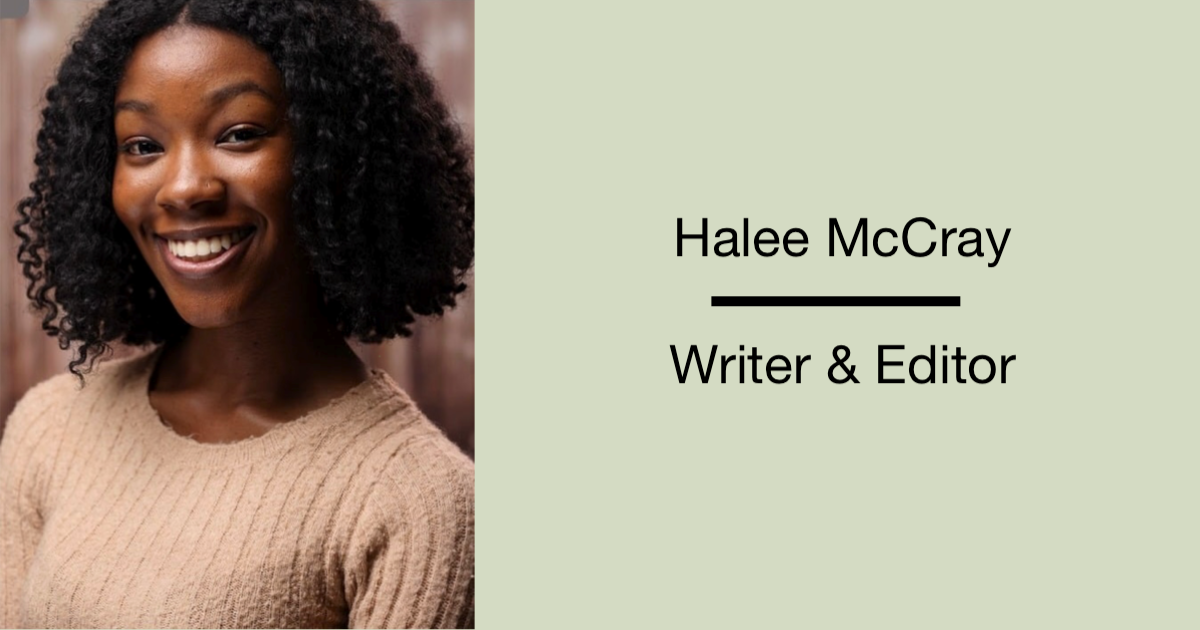
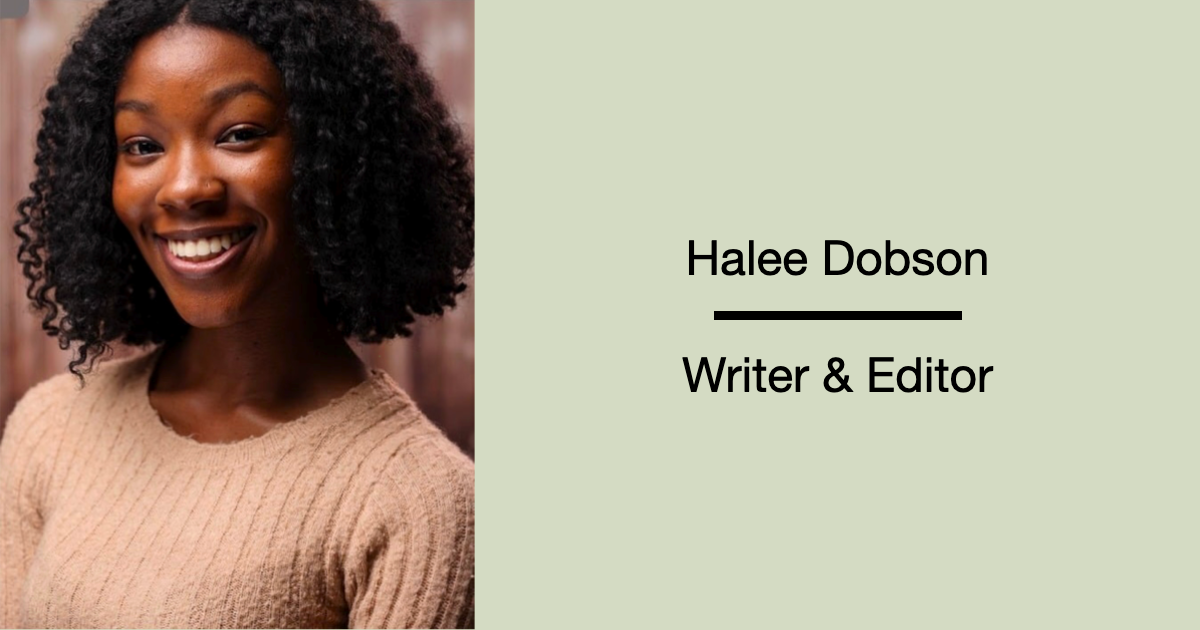
Update name from Halee McCray to Halee Dobson

Changed region(s): [[0.555, 0.3317, 0.8633, 0.5127], [0.555, 0.5429, 0.8633, 0.6333]]

diff --git a/public/index.html b/public/index.html
@@ -32,24 +32,24 @@
       browser. Keep the one-line attribute order (name/property, then content)
       so the build script can find each tag.
     -->
-    <title>Halee McCray | Copywriter &amp; Content Strategist</title>
-    <meta name="description" content="Halee McCray is a copywriter and content strategist writing emails, SMS, blog articles, and e-commerce copy that is clear, on-brand, and gives readers a reason to take the next step." />
+    <title>Halee Dobson | Copywriter &amp; Content Strategist</title>
+    <meta name="description" content="Halee Dobson is a copywriter and content strategist writing emails, SMS, blog articles, and e-commerce copy that is clear, on-brand, and gives readers a reason to take the next step." />
     <link rel="canonical" href="https://haleemccray.com/" />
-    <meta property="og:site_name" content="Halee McCray" />
-    <meta property="og:title" content="Halee McCray | Copywriter &amp; Content Strategist" />
-    <meta property="og:description" content="Halee McCray is a copywriter and content strategist writing emails, SMS, blog articles, and e-commerce copy that is clear, on-brand, and gives readers a reason to take the next step." />
+    <meta property="og:site_name" content="Halee Dobson" />
+    <meta property="og:title" content="Halee Dobson | Copywriter &amp; Content Strategist" />
+    <meta property="og:description" content="Halee Dobson is a copywriter and content strategist writing emails, SMS, blog articles, and e-commerce copy that is clear, on-brand, and gives readers a reason to take the next step." />
     <meta property="og:type" content="website" />
     <meta property="og:url" content="https://haleemccray.com/" />
     <meta property="og:image" content="https://haleemccray.com/headshot-og.png" />
     <meta property="og:image:type" content="image/png" />
     <meta property="og:image:width" content="1200" />
     <meta property="og:image:height" content="630" />
-    <meta property="og:image:alt" content="Halee McCray, copywriter and content strategist" />
+    <meta property="og:image:alt" content="Halee Dobson, copywriter and content strategist" />
     <meta name="twitter:card" content="summary_large_image" />
-    <meta name="twitter:title" content="Halee McCray | Copywriter &amp; Content Strategist" />
-    <meta name="twitter:description" content="Halee McCray is a copywriter and content strategist writing emails, SMS, blog articles, and e-commerce copy that is clear, on-brand, and gives readers a reason to take the next step." />
+    <meta name="twitter:title" content="Halee Dobson | Copywriter &amp; Content Strategist" />
+    <meta name="twitter:description" content="Halee Dobson is a copywriter and content strategist writing emails, SMS, blog articles, and e-commerce copy that is clear, on-brand, and gives readers a reason to take the next step." />
     <meta name="twitter:image" content="https://haleemccray.com/headshot-og.png" />
-    <meta name="twitter:image:alt" content="Halee McCray, copywriter and content strategist" />
+    <meta name="twitter:image:alt" content="Halee Dobson, copywriter and content strategist" />
     <link rel="manifest" href="%PUBLIC_URL%/manifest.json" />
     <!-- Netlify Identity Widget for CMS authentication -->
     <script src="https://identity.netlify.com/v1/netlify-identity-widget.js"></script>

diff --git a/src/hooks/useDocumentMetadata.test.js b/src/hooks/useDocumentMetadata.test.js
@@ -26,7 +26,7 @@ afterEach(() => {
 test('sets the title, description, canonical URL, and share tags for a static route', () => {
   renderAt('/projects/email')
 
-  expect(document.title).toBe('Bevel Email Campaigns | Halee McCray')
+  expect(document.title).toBe('Bevel Email Campaigns | Halee Dobson')
   expect(metaContent('meta[name="description"]')).toMatch(/seasonal email campaigns for Bevel/)
   expect(document.head.querySelector('link[rel="canonical"]'))
     .toHaveAttribute('href', 'https://haleemccray.com/projects/email/')
@@ -43,7 +43,7 @@ test('uses blog post frontmatter once the post has loaded', () => {
     featuredImage: '/images/blog/cover.jpg',
   })
 
-  expect(document.title).toBe('Welcome to My Blog! | Halee McCray')
+  expect(document.title).toBe('Welcome to My Blog! | Halee Dobson')
   expect(metaContent('meta[name="description"]')).toBe('Thoughts on books and movies.')
   expect(metaContent('meta[property="og:type"]')).toBe('article')
   expect(metaContent('meta[property="og:image"]'))
@@ -56,5 +56,5 @@ test('uses blog post frontmatter once the post has loaded', () => {
 test('falls back to blog metadata while a blog post is loading', () => {
   renderAt('/blog/getting-started')
 
-  expect(document.title).toBe('Blog | Halee McCray')
+  expect(document.title).toBe('Blog | Halee Dobson')
 })

diff --git a/src/components/Sidebar/index.js b/src/components/Sidebar/index.js
@@ -143,7 +143,7 @@ const Sidebar = ({ onMenuStateChange }) => {
         inert={isMenuHidden ? '' : undefined}
       >
         <Link className='logo' to='/' onClick={handleNavClick}>
-          <img src={Halee} alt='Halee McCray – home' width='60' height='16' />
+          <img src={Halee} alt='Halee Dobson – home' width='60' height='16' />
         </Link>
         <nav aria-label='Main'>
           <NavLink className='home-link' to='/' end onClick={handleNavClick}>

diff --git a/src/components/Home/index.js b/src/components/Home/index.js
@@ -7,7 +7,7 @@ const Home = () => (
   <>
     <div className='container home-page'>
       <div className='text-zone'>
-        <h1>Halee McCray</h1>
+        <h1>Halee Dobson</h1>
         <h2>Copywriter &amp; content strategist</h2>
         <p className='hero-copy'>
           I help brands find the right words—from emails and SMS to blog

diff --git a/src/components/About/index.js b/src/components/About/index.js
@@ -51,7 +51,7 @@ const About = () => {
         </div>
 
         <div className='headshot-container'>
-          <img className='headshot' src={Headshot} alt='Portrait of Halee McCray' />
+          <img className='headshot' src={Headshot} alt='Portrait of Halee Dobson' />
         </div>
       </div>
       <Loader />

diff --git a/README.md b/README.md
@@ -1,10 +1,10 @@
-# Halee McCray Portfolio
+# Halee Dobson Portfolio
 
-A modern, responsive portfolio website for copywriter Halee McCray.
+A modern, responsive portfolio website for copywriter Halee Dobson.
 
 ## 📋 Overview
 
-This project is a professional portfolio website designed to showcase Halee McCray's writing samples, experience, and services as a copywriter. The site features a clean, engaging design with intuitive navigation, responsive layout, and seamless content presentation.
+This project is a professional portfolio website designed to showcase Halee Dobson's writing samples, experience, and services as a copywriter. The site features a clean, engaging design with intuitive navigation, responsive layout, and seamless content presentation.
 
 Visit the live site: [haleemccray.com](https://haleemccray.com)
 
@@ -97,7 +97,7 @@ This site was developed with a focus on:
 
 ## 📝 License
 
-This project is available for code reference but the content is proprietary to Halee McCray.
+This project is available for code reference but the content is proprietary to Halee Dobson.
 
 ## 👤 Contact
 
@@ -105,4 +105,4 @@ Developer: [Isaac Dobson](https://github.com/Dartsac)
 
 ---
 
-Made with ❤ for Halee McCray
+Made with ❤ for Halee Dobson
